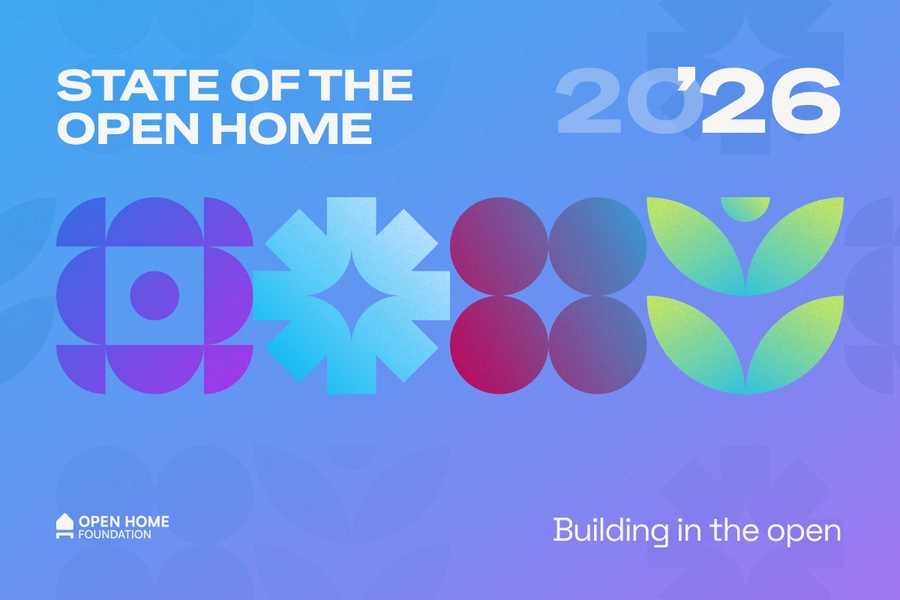
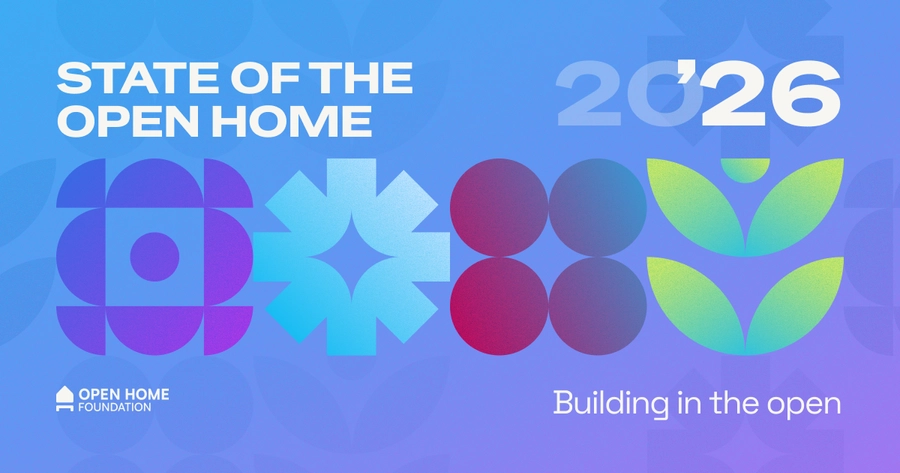
Update imagery

diff --git a/source/_includes/custom/news.html b/source/_includes/custom/news.html
@@ -6,7 +6,7 @@
 
   {% if show_livestream %}
   <a href="https://www.youtube.com/watch?v={{ video_id }}" class="material-card livestream-card" target="_blank" rel="noopener noreferrer" style="
-      background-image: url(/images/frontpage/sotoh-2026.webp);
+      background-image: url(/images/frontpage/sotoh-2026-stream.webp);
       aspect-ratio: 16/9;
     " aria-label="Watch the State of the Open Home 2026 livestream on YouTube">
     <div class="livestream-card-embed"
@@ -28,7 +28,8 @@
         background-image: url(/images/frontpage/sotoh-2026.webp);
         background-size: cover;
         padding-top: 55%;
-        aspect-ratio: 16/10;
+        aspect-ratio: 1200/600;
+        width: 100%;
       " aria-label="Join us in Utrecht on April 8 for State of the Open Home 2026.">
   </a>
 
